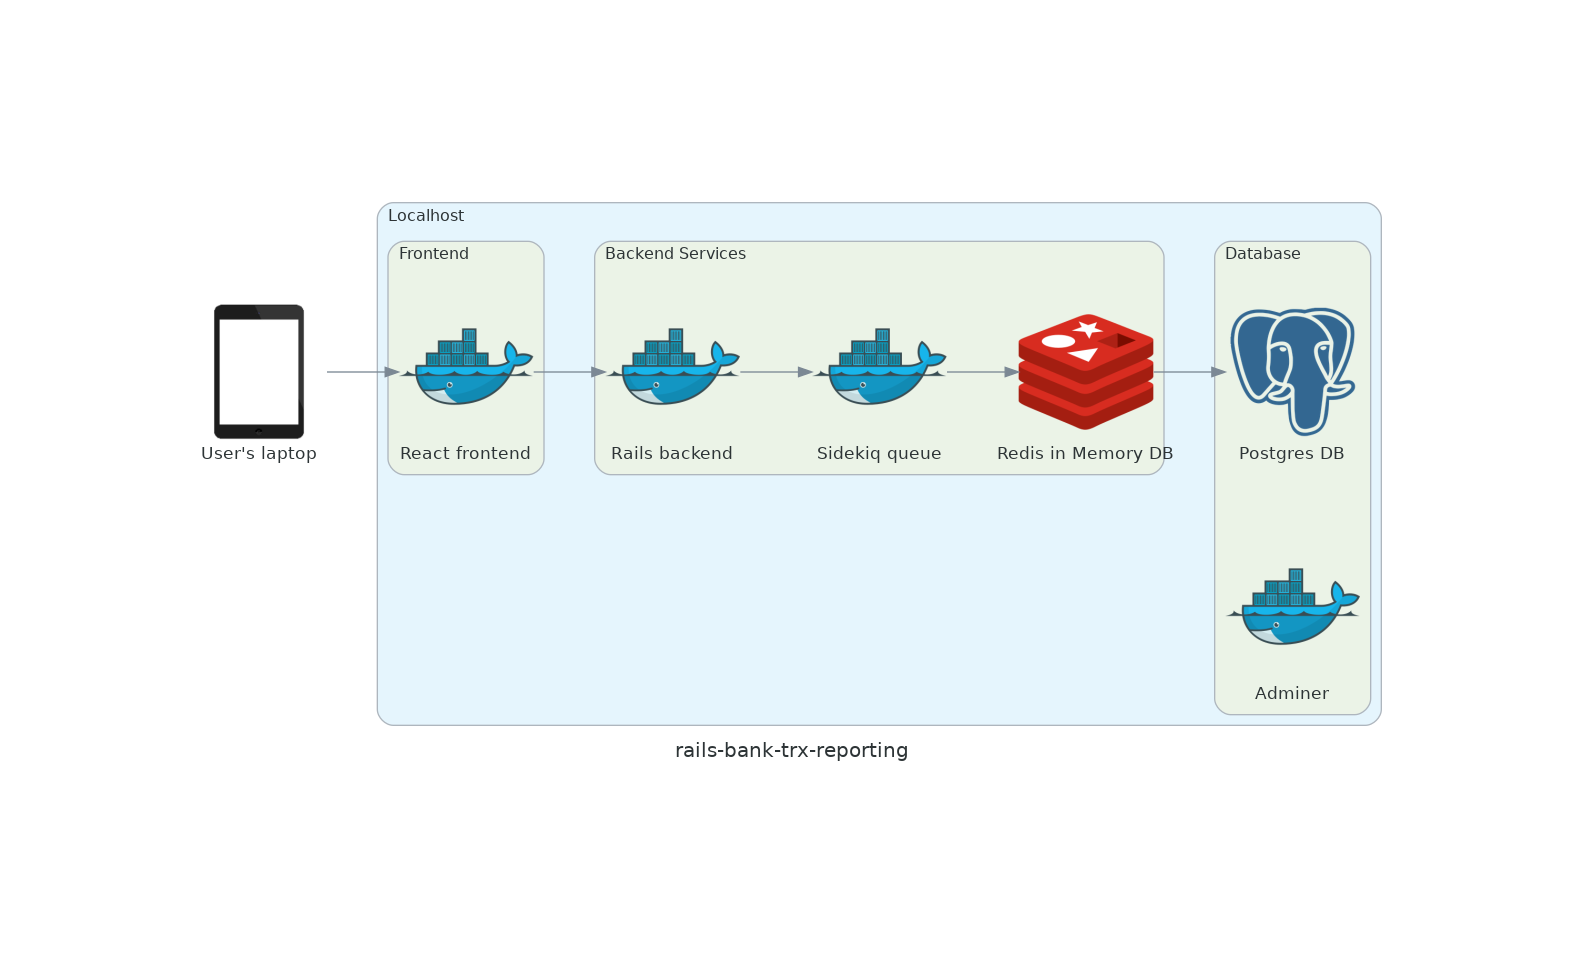
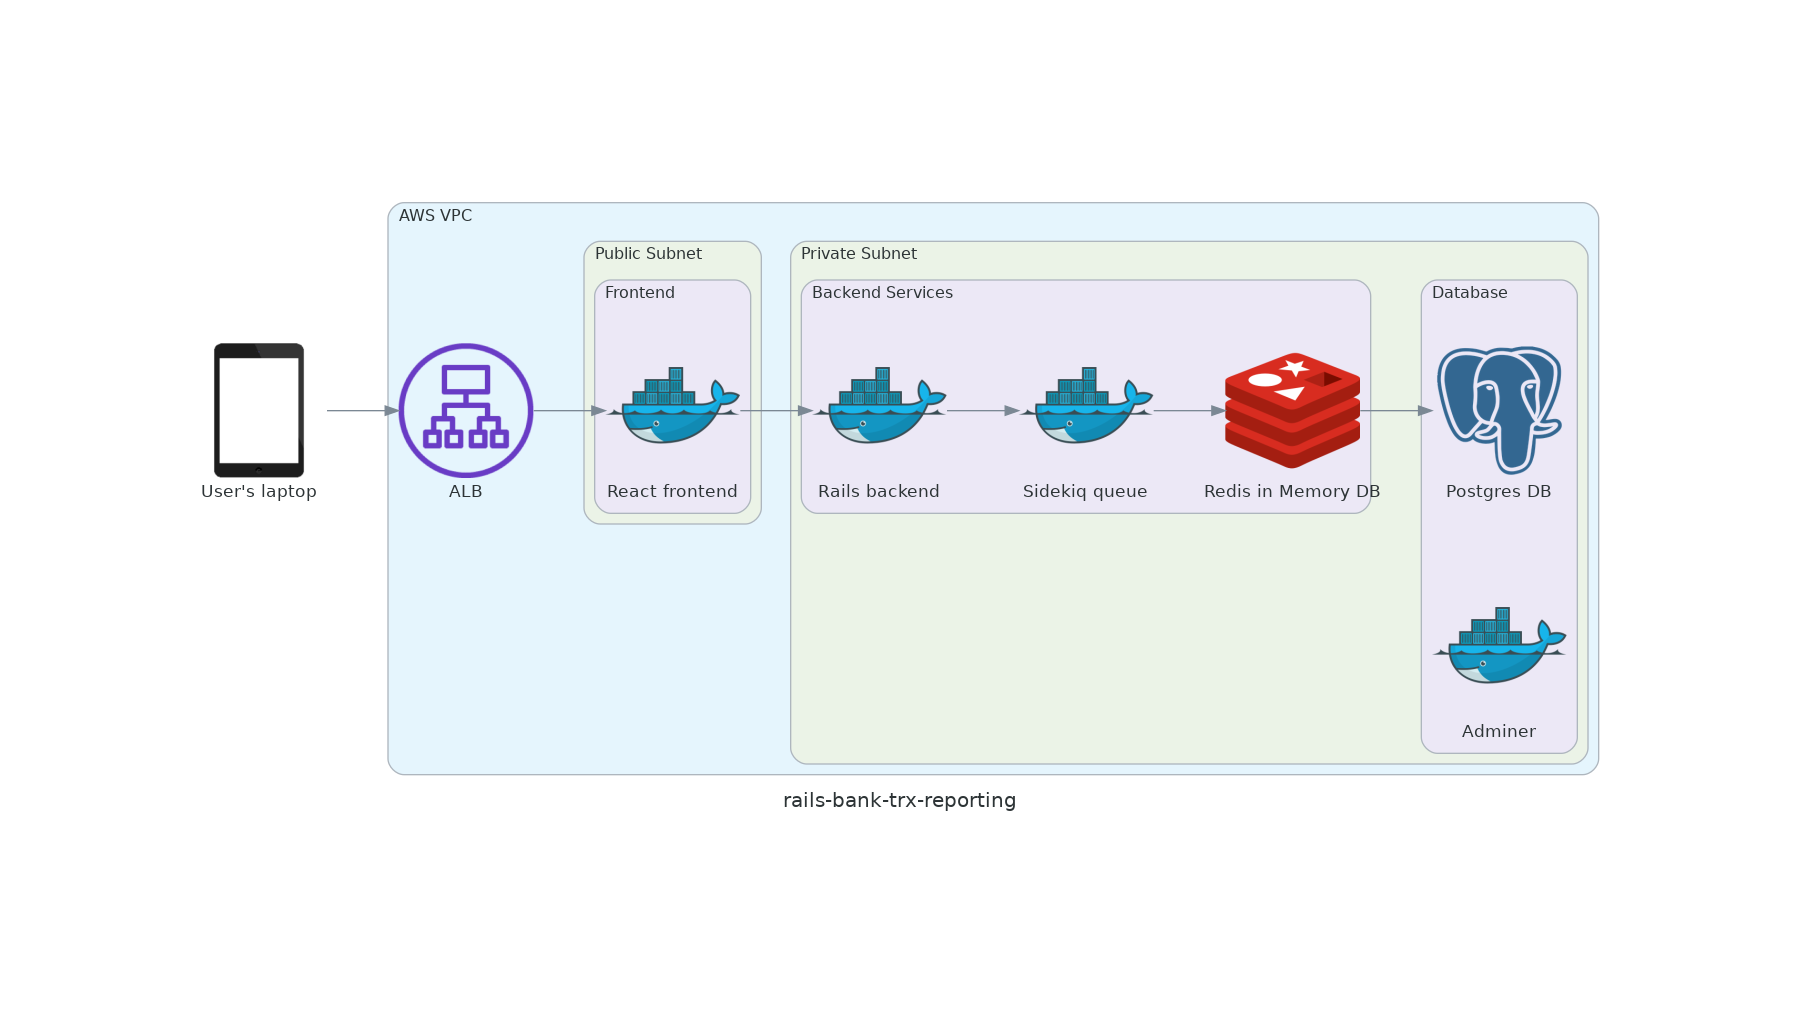
added aws design proposal

Changed region(s): [[0.0928, 0.1873, 0.8971, 0.8117], [0.7115, 0.2497, 0.7424, 0.281]]

diff --git a/docs/aws-diagram.py b/docs/aws-diagram.py
@@ -1,0 +1,34 @@
+from diagrams import Cluster, Diagram
+from diagrams.onprem.container import Docker
+from diagrams.onprem.database import PostgreSQL
+from diagrams.onprem.inmemory import Redis
+from diagrams.aws.network import ElbApplicationLoadBalancer
+from diagrams.generic.device import Tablet
+
+with (Diagram("rails-bank-trx-reporting", show=True)):
+    User = Tablet("User's laptop")
+
+    with Cluster("AWS VPC"):
+        ApplicationLoadBalancer = ElbApplicationLoadBalancer("ALB")
+
+        with Cluster("Public Subnet"):
+            with Cluster("Frontend"):
+                react_frontend = Docker("React frontend")
+
+        with Cluster("Private Subnet"):
+            with Cluster("Backend Services"):
+                rails_backend = Docker("Rails backend")
+                sidekiq_queue = Docker("Sidekiq queue")
+                redis_in_memory = Redis("Redis in Memory DB")
+                svc_group = [rails_backend, sidekiq_queue, redis_in_memory]
+
+            with Cluster("Database"):
+                postgres_db = PostgreSQL("Postgres DB")
+                adminer = Docker("Adminer")
+
+        User >> ApplicationLoadBalancer
+        ApplicationLoadBalancer >> react_frontend
+        react_frontend >> rails_backend
+        rails_backend >> sidekiq_queue
+        sidekiq_queue >> redis_in_memory
+        redis_in_memory >> postgres_db
